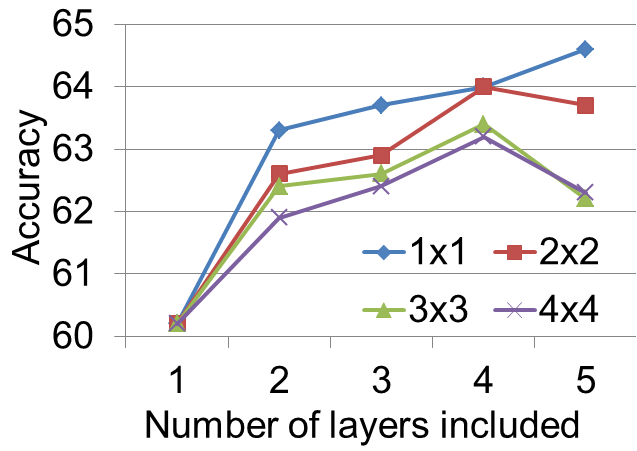
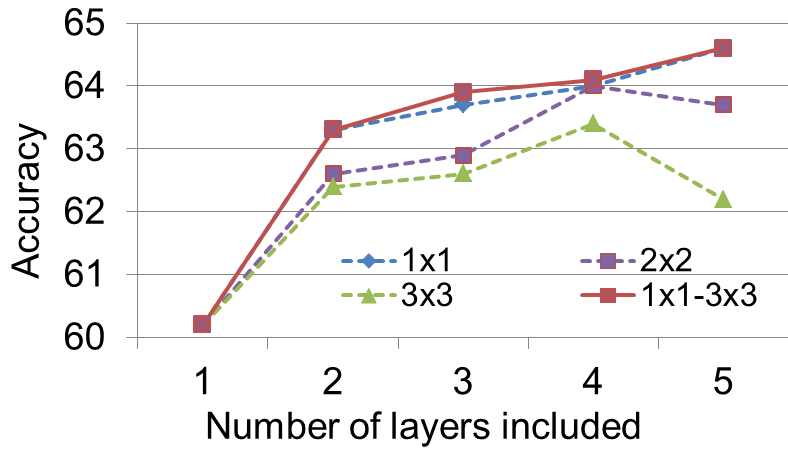
modify figures

diff --git a/DAG-CNN_iccv_review.tex b/DAG-CNN_iccv_review.tex
@@ -67,7 +67,7 @@ In terms of the heavily benchmarked MIT67 and Scene15 datasets, our results redu
 
 \begin{figure}[t!]
 \centering
-\includegraphics[width=\columnwidth]{fig/splash}
+\includegraphics[width=.9\columnwidth]{fig/splash}
 \caption{Recognition typically require features at multiple scales. Distinguishing a person versus dog requires highly invariant features robust to the deformation of each category. On the other hand, fine-grained recognition likely requires detailed shape cues to distinguish models of cars ({\bf top}). We use these observations to revisit deep convolutional neural net (CNN) architectures. Typical approaches train a classifier using features from a single output layer ({\bf left}). We extract multi-scale features from multiple layers to simultaneously distinguish coarse and fine classes. Such features come ``for free'' since they are already computed during the feed-forward pass ({\bf middle}). Interestingly, the entire multi-scale predictor is still a feed-forward architecture that is no longer chain-structured, but a directed-acyclic graph (DAG) ({\bf right}). We show that DAG-CNNs can be discriminatively trained in an end-to-end fashion, yielding state-of-the-art recognition results across various recognition benchmarks. }% DAG-CNNs address some well-known challenges with CNNs such as ``vanishing gradients''~\cite{bengio1994learning}. Lower layers in a DAG-CNN still receive a strong gradient signal during learning because they are directly tied to the output layer, making them easier to train.
 \label{fig:splash}
 \end{figure}
@@ -81,7 +81,7 @@ hierarchical feed-forward architectures that compute progressively invariant rep
 \centering
 	\subfigure[mid-level feature is preferred]{\includegraphics[width=.49\textwidth]{fig/moti_low_better.png}\label{fig:moti_low}}
 	\subfigure[high-level feature is preferred]{\includegraphics[width=.49\textwidth]{fig/moti_high_better.png}\label{fig:moti_high}}
-\caption{Retrieval results using L2 distance for both mid- and high-level features on MIT67~\cite{MIT67}, computed from layer 11 and 20 of the Caffe model. \textit{Green} (\textit{Red}) box means correct (wrong) results, in terms of the scene category label. The correct label for wrong retrievals are provided. The retrieval results are displayed such that the left-most image has the closest distance to the query, and vice versa. Certain query images (or categories) produce better matches with high-level features, while others produce better results with mid-level features. This motivates our multi-scale approach. \deva{Songfan, can you update this figure to look nicer with this layout? Perhaps put the query image above the rows?}}
+\caption{Retrieval results using L2 distance for both mid- and high-level features on MIT67~\cite{MIT67}, computed from layer 11 and 20 of the Caffe model. \textit{Green} (\textit{Red}) box means correct (wrong) results, in terms of the scene category label. The correct label for wrong retrievals are provided. The retrieval results are displayed such that the left-most image has the closest distance to the query, and vice versa. Certain query images (or categories) produce better matches with high-level features, while others produce better results with mid-level features. This motivates our multi-scale approach.}
 \label{fig:moti}
 \end{figure*}
 
@@ -139,9 +139,9 @@ To develop our motivation, we analyze the behavior of the ``off-the-shelf'' Caff
 
 \begin{figure}[t!]
 \centering
-	\includegraphics[width=\columnwidth]{fig/fig_layer_caffe.png}
+	\includegraphics[width=.8\columnwidth]{fig/fig_layer_caffe.png}
 
-\caption{The classification accuracy on MIT67~\cite{MIT67} using activations from each layer. We use a solid color fill representing the output of a ReLU layer, where there are 7 in total for the Caffe model. We tend to see a performance jump at each successive ReLU layer, particularly earlier on in the model.}
+\caption{The classification accuracy on MIT67~\cite{MIT67} using activations from each layer. We use an orange color fill representing the output of a ReLU layer, where there are 7 in total for the Caffe model. We tend to see a performance jump at each successive ReLU layer, particularly earlier on in the model.}
 \label{fig:layer_MIT67}
 \end{figure}
 
@@ -203,15 +203,17 @@ The ``+'' sign means the recent-most added layer. Adding additional layers help,
 
 {\bf Multi-scale selection:} The previous results show that adding all layers may actually hurt performance. We verified that this was an over-fitting phenomena; additional layers always improved training performance, but could decrease test performance due to over-fitting. This appears especially true for multi-scale analysis, where nearby layers may encoded redundant or correlated information (that is susceptible to over-fitting). Ideally, we would like to search for the ``optimal'' combination of ReLU layers that maximize performance on validation data. Since there exists an exponential number of combinations ($2^N$ for $N$ ReLU layers), we find an approximate solution with a greedy forward-selection strategy. We greedily select the next-best layer (among all remaining layers) to add, until we observe no further performance improvement. As seen in Fig.~\ref{fig:forward_select_caffe}, the optimal results of this greedy approach rejects the low-level features. This is congruent with the previous results in Fig.~\ref{fig:add_back_caffe}. 
 
-\new{{\bf Multiscale pooling:} We use our greedy scale-selection strategy to explore different-sized pooling windows. When greedily searching over scales, we also search over possible pooling strategies at each scale. Specifically, we divide the spatial features from a particular layer into $M \times M$ non-overlapping windows, were $M$ varied from 1 to 4. Within each window we pool features (either by average or max pooling), concatenate the $M^2$ pooled features together into a final L2-normalized descriptor (that was available for greedy selection). Interestingly, when evaluating spatial pooling strategies for {\em single-scale} classification, a small mount of spatial information (say, a $2 \times 2$ descriptor) could improve performance for certain layers. But when used in a multi-scale model, the improvement over global pooling ($1 \times 1$ in Fig.~\ref{fig:sumpool_size}) was negligible, perhaps because such information is already captured in neighboring layers. We hypothesize that with more training data, spatial pooling may perform better. In our subsequent analysis we consider only globally-pooled features.}
+\new{{\bf Multiscale pooling:} We use our greedy scale-selection strategy to explore different-sized pooling windows. When greedily searching over scales, we also search over possible pooling strategies at each scale. Specifically, we divide the spatial features from a particular layer into $M \times M$ non-overlapping windows, were $M$ varied from 1 to 3. Within each window we pool features by average pooling), concatenate the $M^2$ pooled features together into a final L2-normalized descriptor (that was available for greedy selection). Interestingly, when evaluating spatial pooling strategies for {\em single-scale} classification, a small mount of spatial information (say, a $2 \times 2$ descriptor) could improve performance for certain layers. But when used in a multi-scale model, the improvement over global pooling ($1 \times 1$ in Fig.~\ref{fig:pool_size}) was negligible, perhaps because such information is already captured in neighboring layers. We hypothesize that with more training data, spatial pooling may perform better. In our subsequent analysis we consider only globally-pooled features.}
 %To explore more feature concatenation strategy besides marginal features, we consider non-overlapping pooling with various window sizes in the forward selection diagnostic experiment. Concretely, we first divide the response map to $M\times M$ patches spatially. ``Sum-pooling'' and ``Max-pooling'' strategies are then applied to each patch and the resulting features are concatenated and L2 normalized. Note that the feature dimension increases at $N^2$ speed after concatenation, and thus, a large $N$ with our multi-scale feature extraction is not feasible. Here, we consider N from 1 to 4 in our experiment. As seen in Fig.~\ref{fig:pool_size}, sum-pooling is generally better than max-pooling in this task, suggesting that more aggressive max-pooling might hurt the discriminativeness of the model. Moreover, the best performance is achieved by the marginal activation with sum-pooling ($1\times 1$ in Fig.~\ref{fig:sumpool_size}), suggesting that the mean receptive field is more representative and less prone to over-fitting due to smaller feature dimension. }
+
 \begin{figure}[t!]
 \centering
-\subfigure[Avg-pooling]{\includegraphics[width=.49\columnwidth]{fig/sumpool_size.png}\label{fig:sumpool_size}}
-\subfigure[Max-pooling]{\includegraphics[width=.49\columnwidth]{fig/maxpool_size.png}\label{fig:maxpool_size}}
-\caption{\new{Greedy selection of layers and the number of pooling windows per layer. In general, globally-pooled $1 \times 1$ features (with average pooling)  performs the best.} \deva{Songfan, could you add the result that searches over all window sizes during the greedy selection? You already showed such a result, and could probably just add a line it to the above graphs (labeled something link  [1x1-4x4]). If space is an issue, I'd drop the max-plot.}}
+\includegraphics[width=.5\columnwidth]{fig/sumpool_size.png}
+
+\caption{\new{Greedy selection of layers and the number of pooling windows per layer. Globally-pooled $1 \times 1$ features (with average pooling) performs as good as the results that searches over all window sizes during the greedy selection.}}
 \label{fig:pool_size}
 \end{figure}
+
 
 Our analysis strongly suggest the importance (and ease) of incorporating multi-scale features for classification tasks. For our subsequent experiments, we use scales selected by the forward selection algorithm on MIT67 data (shown in Fig.~\ref{fig:forward_select_caffe}). Note that we use them for all our experimental benchmarks, demonstrating a degree of cross-dataset generalization in our approach. 
 
@@ -230,7 +232,7 @@ In this section, we show that the multi-scale model examined in Fig.~\ref{fig:fo
 
 
 {\bf Training:} Let $\textbf{w}_1,...\textbf{w}_K$ be the CNN model parameters at $1,..,K$-th layer, training data be ($\textbf{x}^{(i)},\textbf{y}^{(i)}$), where $\textbf{x}^{(i)}$ is the $i$-th input image and $\textbf{y}^{(i)}$ is the indicator vector of the class of $\textbf{x}^{(i)}$. Then we intend to solve the following optimization problem
-
+\vspace{-5}
 \begin{align}
 \argmin_{\textbf{w}_1,...\textbf{w}_K} \frac{1}{n}\sum_{i=1}^{n} \mathcal{L}(f(\textbf{x}^{(i)};\textbf{w}_1,...,\textbf{w}_K),\textbf{y}^{(i)})
 \end{align}
@@ -238,7 +240,7 @@ In this section, we show that the multi-scale model examined in Fig.~\ref{fig:fo
 As is now commonplace, we make use of stochastic gradient descent to minimize the objective function. For a traditional \textit{chain} model, the partial derivative of the output with respect to any one weight can be recursively computed by the chain rule, as described in the back-prop algorithm.%~\cite{rumelhart1988learning}. 
 
 {\bf Multi-output layers (ReLU):} Our DAG-model is structurally different at the ReLU layers (since they have multiple outputs) and the \textit{Add} layer (since it has multiple inputs). We can still compute partial derivatives by recursively applying the chain rule, but care needs to be taken at these points. Let us consider the $i$-th ReLU layer in Fig.~\ref{fig:backprop_eq}. Let $\alpha_i$ be its input, $\beta_i^{(j)}$ be the output for its $j$-th output branch (its $j^{th}$ child in the DAG), and let $z$ is the final output of the softmax layer. The gradient of $z$ with respect to the input of the $i$-th ReLU layer can be computed as
-
+\vspace{-5}
 \begin{align}
 \frac{\partial z}{\partial \alpha_i}=\sum_{j=1}^{C}\frac{\partial z}{\partial \beta_i^{(j)}}\frac{\partial \beta_i^{(j)}}{\partial \alpha_i} \quad \text {(in general)} \label{eq:backprop1}
 \end{align}
@@ -250,13 +252,14 @@ As is now commonplace, we make use of stochastic gradient descent to minimize th
 
 \begin{figure}[t!]
 \centering
-	\includegraphics[width=\columnwidth]{fig/fig_backprop_eq.png}
+	\includegraphics[width=.85\columnwidth]{fig/fig_backprop_eq.png}
 \caption{Visualization of the parameter setup at $i$-th ReLU.}
 \label{fig:backprop_eq}
 \end{figure}
 
 
 {\bf Multi-input layers (Add):} Let $\beta_k=g(\alpha^{(1)}_k,\cdots,\alpha^{(N)}_k)$ represents the output of a layer with multiple inputs. We can compute the gradient along the layer by applying the chain rule as follows:
+\vspace{-5}
 \begin{align}
 \frac{\partial z}{\partial \alpha_i}&=\frac{\partial z}{\partial \beta_k}\frac{\partial \beta_k}{\partial \alpha_i} \nonumber \\
 &=\frac{\partial z}{\partial \beta_k}\sum_{j=1}^{C}\frac{\partial \beta_k}{\partial \alpha_k^{(j)}}\frac{\partial \alpha_k^{(j)}}{\partial \alpha_i} \quad \text{(in general)} \label{eq:backprop2}
@@ -265,6 +268,7 @@ One can similarly arrive at the standard back-propagation by setting $C=1$.
 
 
 {\bf Special case (ReLU):} Our particular DAG architecture can further simplify the above equations. Firstly, it may be common for multiple-output layers to duplicate the same output for each child branch. This is true of our ReLU units; they pass the same values to the next layer in the chain and the current-layer pooling operation. This means the output-specific gradients are identical for those outputs $\forall j, \frac{\partial \beta_i^{(j)}}{\partial \alpha_i} =  \frac{\partial \beta_i^{(1)}}{\partial \alpha_i}$, which simplifies \eqref{eq:backprop1} to
+\vspace{-5}
 \begin{align}
 \frac{\partial z}{\partial \alpha_i} = \frac{\partial \beta_i^{(1)}}{\partial \alpha_i} \sum_{j=1}^{C}\frac{\partial z}{\partial \beta_i^{(j)}} \quad \text{(for duplicate outputs)}
 \end{align}
@@ -274,6 +278,7 @@ the number of multiplications by $C$. We make use of this speed up to train our 
 
 {\bf Special case (Add):} Similarly, our multi-input {\tt Add} layer reuses the same partial gradient for each input
 $\forall j, \frac{\partial \beta_k}{\partial \alpha_k^{(j)}} = \frac{\partial \beta_k}{\partial \alpha_k^{(1)}}$ which simplifies even further in our case to $1$. The resulting back-prop equations that simplify \eqref{eq:backprop2} are given by
+\vspace{-5}
 \begin{align}
 \frac{\partial z}{\partial \alpha_i} = \frac{\partial z}{\partial \beta_k} \frac{\partial \beta_k}{\partial \alpha_k^{(1)}}\sum_{j=1}^{C} \frac{\partial \alpha_k^{(j)}}{\partial \alpha_i}  \quad \text{(for duplicate gradients)}
 \end{align}
@@ -285,7 +290,7 @@ $\forall j, \frac{\partial \beta_k}{\partial \alpha_k^{(j)}} = \frac{\partial \b
 
 \begin{figure}[htbp]
 \centering
-\includegraphics[width=.9\columnwidth]{fig/fig_grad.png}
+\includegraphics[width=.8\columnwidth]{fig/fig_grad.png}
 \caption{The average gradient from Layer-1 (Conv.) during training, plotted in log-scale. Gradients from the DAG are consistently $10\times$ larger, implying that they receive a stronger supervised signal from the target label during gradient-based learning.}
 \label{fig:grad}
 \end{figure}
